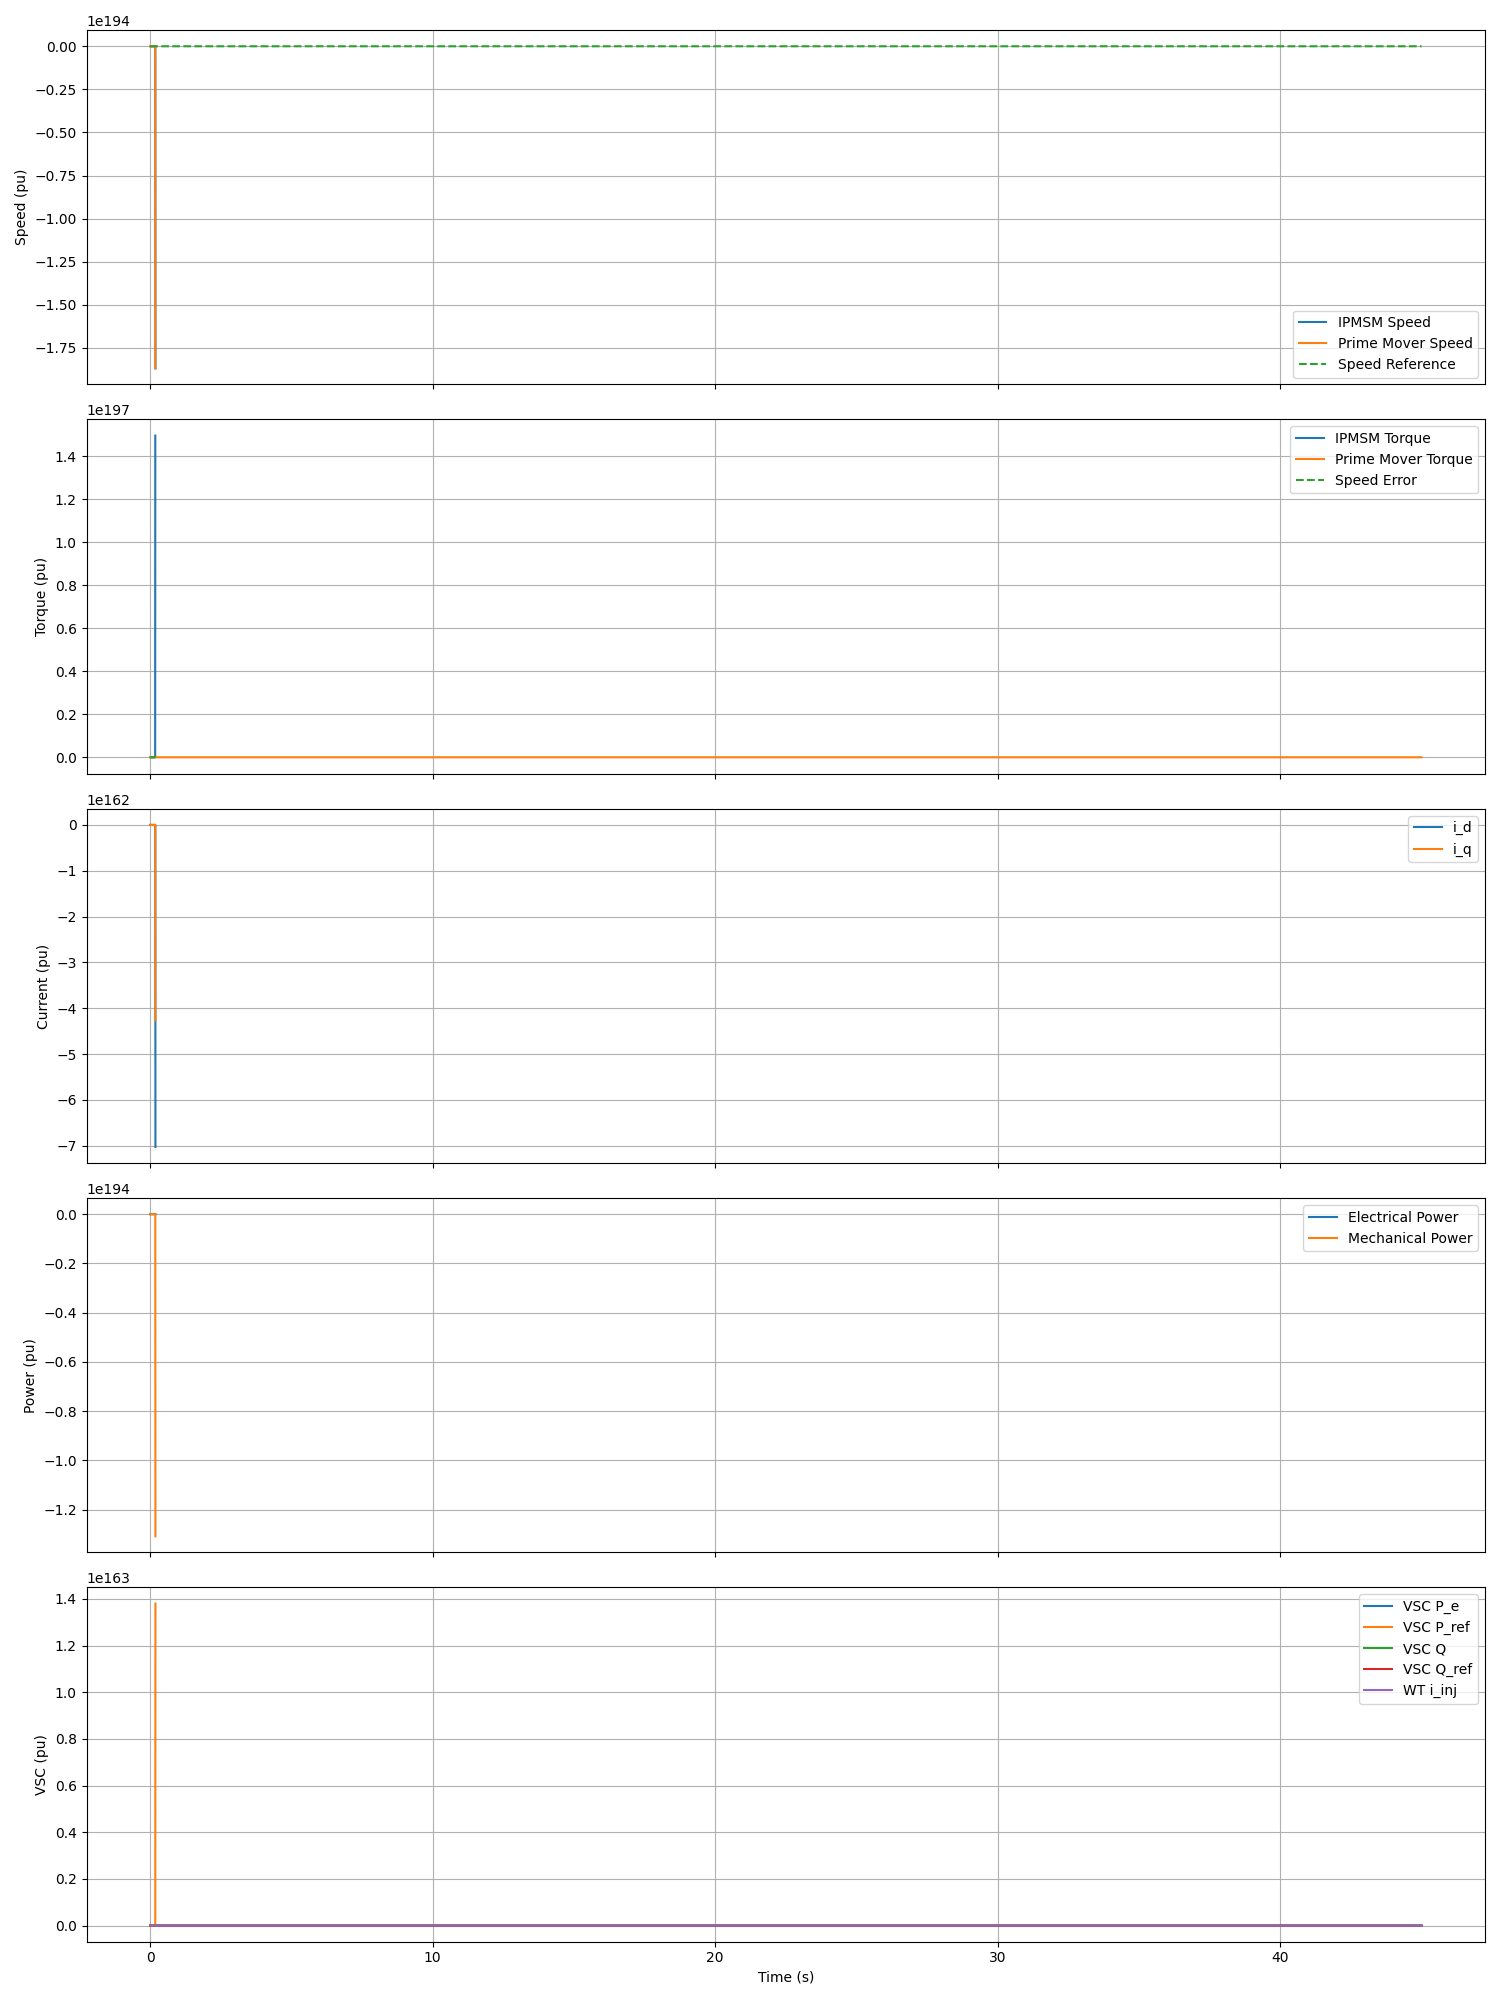
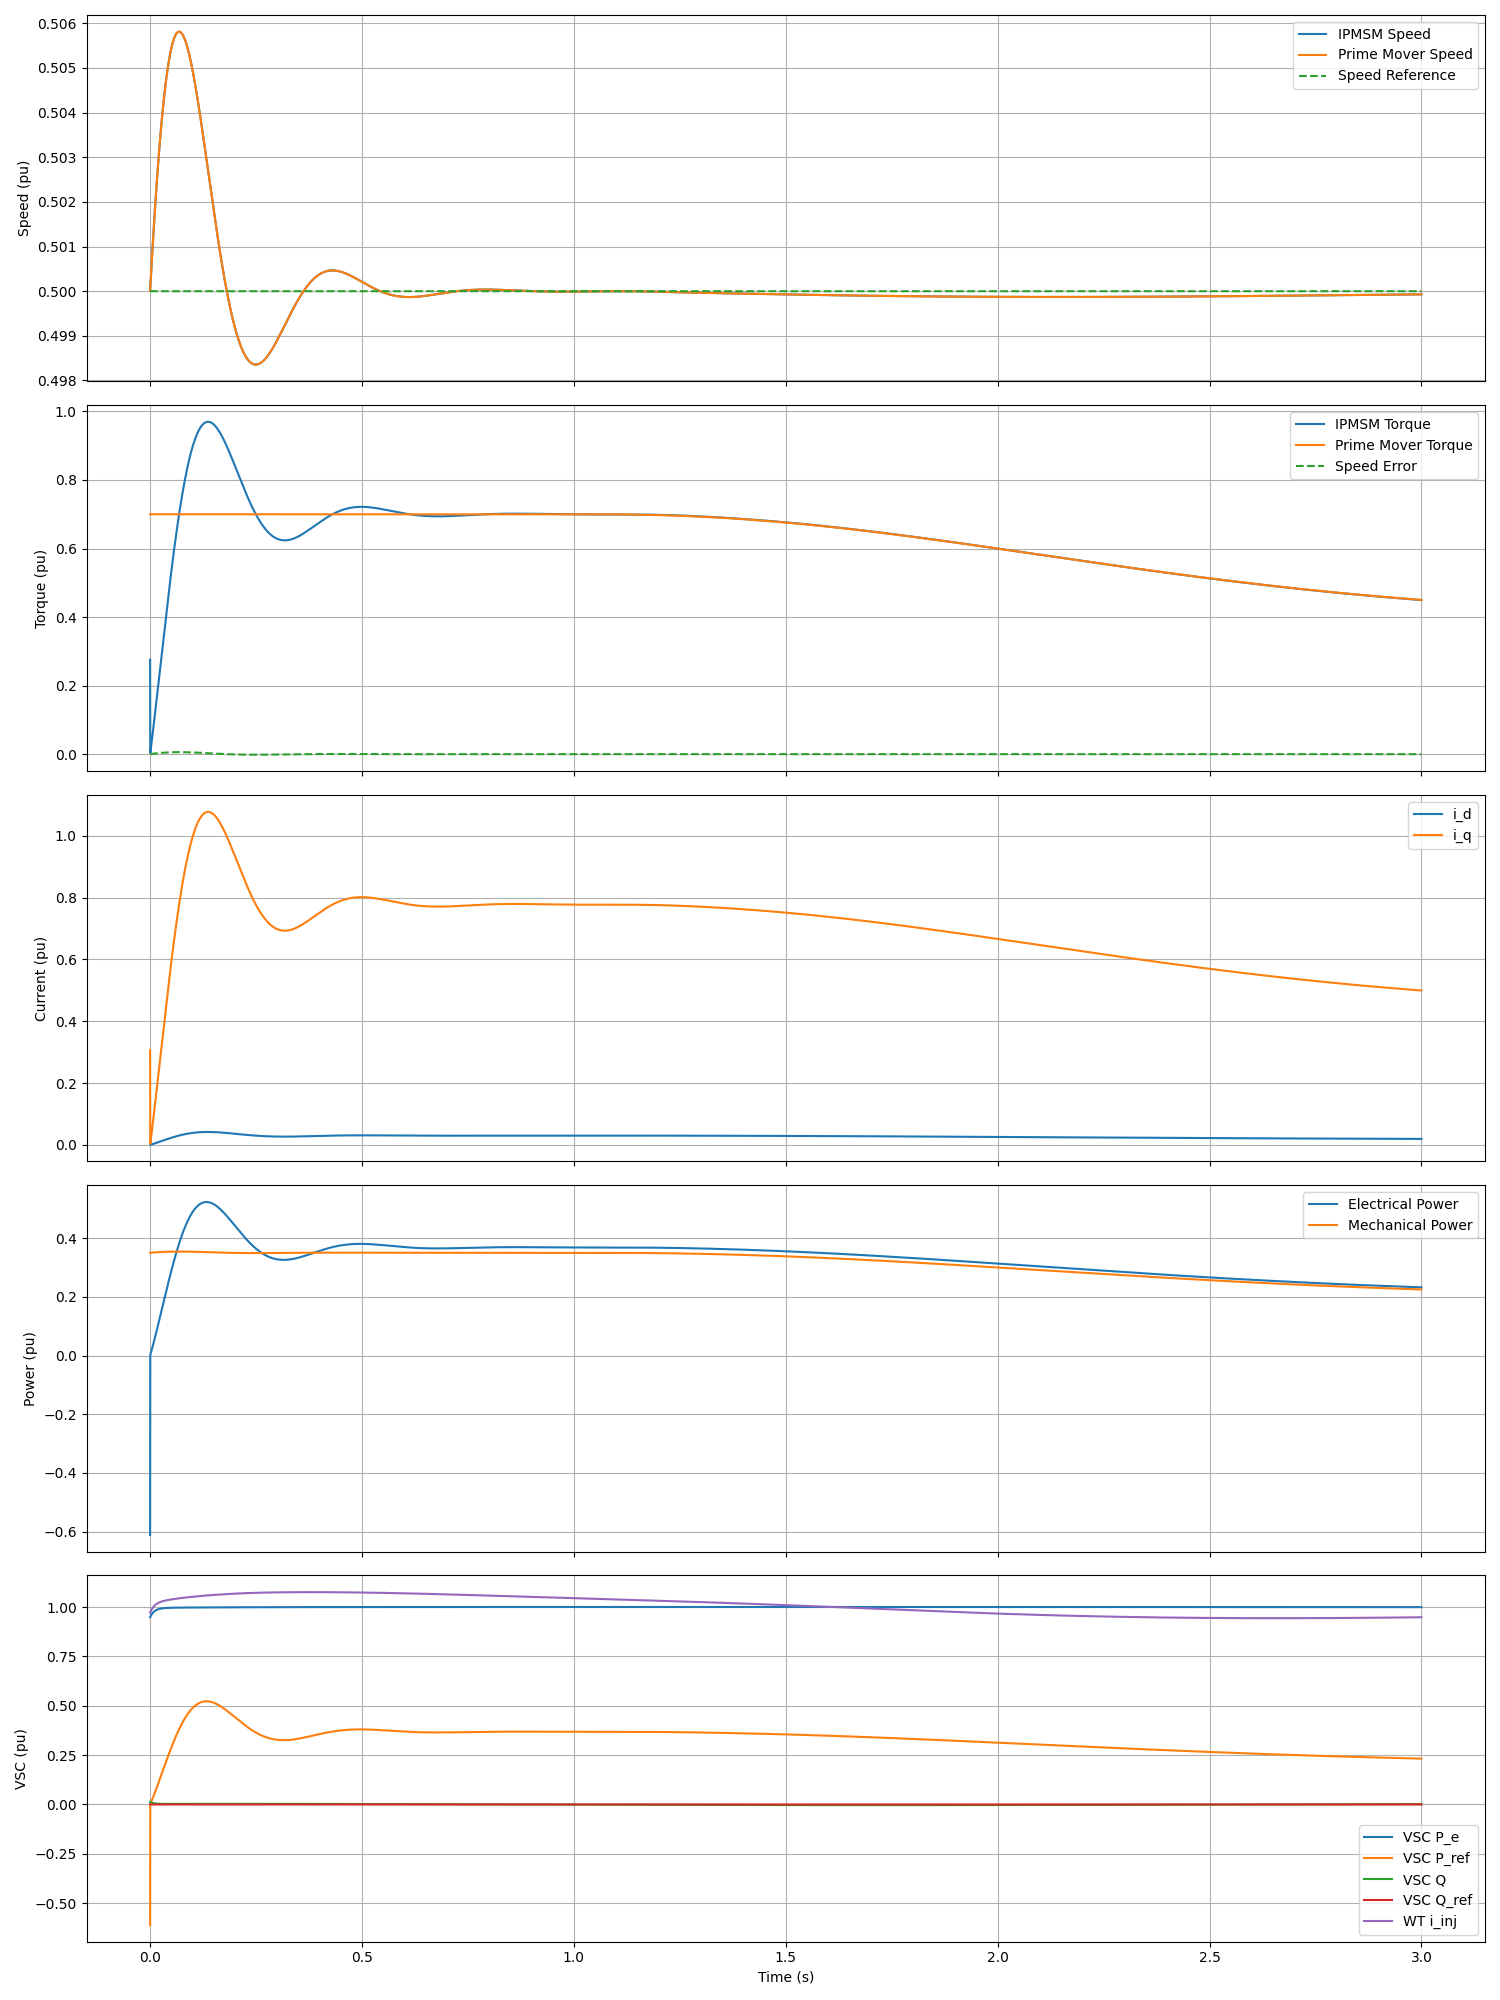
Numerisk drit - rolig helg eller? - Sludd har ankommet Trondheim - Gen lab var mid - Føler meg generelt nystellt - God helg

diff --git a/src/tops/dyn_models/IPMSM_drives.py b/src/tops/dyn_models/IPMSM_drives.py
@@ -5,6 +5,43 @@ import numpy as np
 import matplotlib.pyplot as plt
 from tops.dyn_models.utils import DAEModel
 
+def rkf45(f, y0, t0, dt):
+    c = [0, 1/4, 3/8, 12/13, 1, 1/2]
+    a = [
+        [],
+        [1/4],
+        [3/32, 9/32],
+        [1932/2197, -7200/2197, 7296/2197],
+        [439/216, -8, 3680/513, -845/4104],
+        [-8/27, 2, -3544/2565, 1859/4104, -11/40]
+    ]
+    b = [16/135, 0, 6656/12825, 28561/56430, -9/50, 2/55]
+    b_star = [25/216, 0, 1408/2565, 2197/4104, -1/5, 0]
+
+    k = [f(t0, y0)]
+    for i in range(1, 6):
+        yi = y0 + dt * sum(a[i][j] * k[j] for j in range(i))
+        k.append(f(t0 + c[i] * dt, yi))
+
+    y_new = y0 + dt * sum(b[i] * k[i] for i in range(6))
+    y_star = y0 + dt * sum(b_star[i] * k[i] for i in range(6))
+    error = np.linalg.norm(y_new - y_star)
+    return y_new, error
+
+# Adaptive timestep control
+def adaptive_rkf45(f, y0, t0, dt, tol=1e-6):
+    safety_factor = 0.9
+    max_factor = 5.0
+    min_factor = 0.2
+
+    while True:
+        y_new, error = rkf45(f, y0, t0, dt)
+        if error < tol:
+            break
+        dt = max(min_factor, min(max_factor, safety_factor * (tol / error)**0.25)) * dt
+
+    return y_new, dt
+
 # region PI Controller class
 class PIController_LAH:
     def __init__(self, kp, ti):
@@ -138,9 +175,15 @@ class IPMSM(MachineSideConverter, PrimeMover, PIController_LAH):
         # self.speed_measured = self.speed
 
         # Initialize PI controllers for i_d and i_q
-        self.pi_controller_id = PIController_LAH(kp=1.27, ti=0.14)
-        self.pi_controller_iq = PIController_LAH(kp=1.27, ti=0.14)
-        self.pi_controller_speed = PIController_LAH(kp=56, ti=0.04)
+        # self.pi_controller_id = PIController_LAH(kp=1.27, ti=0.14)
+        # self.pi_controller_iq = PIController_LAH(kp=1.27, ti=0.14)
+        # self.pi_controller_speed = PIController_LAH(kp=56, ti=0.04)
+
+
+        # Initialize PI controllers for i_d, i_q, and speed with parameters adjusted for a larger timestep
+        self.pi_controller_id = PIController_LAH(kp=0.5, ti=0.2)
+        self.pi_controller_iq = PIController_LAH(kp=0.5, ti=0.2)
+        self.pi_controller_speed = PIController_LAH(kp=20, ti=0.1)
 
         # Desired currents and speed
         self.i_d_ref = 0.0          # Må kanskje endres senere
@@ -173,6 +216,8 @@ class IPMSM(MachineSideConverter, PrimeMover, PIController_LAH):
 
                     % Mechanical
                     T_m = 0.8; [s] mechanical time constant
+
+        
         
         """
 
@@ -182,8 +227,13 @@ class IPMSM(MachineSideConverter, PrimeMover, PIController_LAH):
         psi_q = self.i_q*p["x_q"]
         psi_d = self.i_d*p["x_d"] + p["Psi_m"]
 
+        # Motor convention
         dX["i_d"] = (self.converter.vd - p["rs"]*self.i_d + psi_q*self.speed) * (p["w_n"]/p["x_d"])
         dX["i_q"] = (self.converter.vq - p["rs"]*self.i_q - psi_d*self.speed) * (p["w_n"]/p["x_d"])
+
+        # Generator convention (care for direction of the currents)
+        # dX["i_d"] = (-self.converter.vd + p["rs"]*self.i_d - psi_q*self.speed) * (p["w_n"]/p["x_d"])
+        # dX["i_q"] = (-self.converter.vq + p["rs"]*self.i_q + psi_d*self.speed) * (p["w_n"]/p["x_d"])
 
         Te = psi_d*self.i_q - psi_q*self.i_d
 
@@ -256,7 +306,7 @@ class IPMSM(MachineSideConverter, PrimeMover, PIController_LAH):
     
     # endregion
 
-    def update_states(self, t, dt):
+    def update_states(self, t, dt, tol=1e-6):
 
         # Update the reference values of the prime mover, this is because of any changes in the reference values (ramping)
         self.set_primemover_ramp_reference_values(current_time=t)
@@ -270,14 +320,99 @@ class IPMSM(MachineSideConverter, PrimeMover, PIController_LAH):
         # Update reference voltages using PI controllers
         self.update_current_control(dt)
 
+        # def derivatives_wrapper(t, y):
+        #         self.primemover.speed, self.i_d, self.i_q = y
+        #         dX = self.derivatives()
+        #         return np.array([dX["speed"], dX["i_d"], dX["i_q"]])
+
+        # y0 = np.array([self.primemover.speed, self.i_d, self.i_q])
+        # y_new, dt_new = adaptive_rkf45(derivatives_wrapper, y0, t, dt, tol)
+
+        # # Update the states
+        # self.primemover.speed, self.i_d, self.i_q = y_new
+        # self.speed = self.primemover.speed
+
+        # return dt_new
+
         # Calculate the derivatives
         dX = self.derivatives()
 
-        # Update the states using Euler integration
+        # # Update the states using Euler integration
         self.primemover.speed += dX["speed"] * dt
         self.speed += dX["speed"] * dt
         self.i_d += dX["i_d"] * dt
         self.i_q += dX["i_q"] * dt
+
+        # region RKF45
+        # Calculate the derivatives using adaptive RKF45 method
+        # Define the Runge-Kutta-Fehlberg method (RKF45)
+
+
+        # region Traapezoidal rule
+        # # Update the states using the trapezoidal rule
+        # dX1 = self.derivatives()
+        
+        # # Predict the next state
+        # temp_speed = self.primemover.speed + dX1["speed"] * dt
+        # temp_i_d = self.i_d + dX1["i_d"] * dt
+        # temp_i_q = self.i_q + dX1["i_q"] * dt
+        
+        # # Calculate the derivatives at the predicted next state
+        # self.primemover.speed = temp_speed
+        # self.i_d = temp_i_d
+        # self.i_q = temp_i_q
+        # dX2 = self.derivatives()
+        
+        # # Correct the state using the average of the derivatives
+        # self.primemover.speed += 0.5 * (dX1["speed"] + dX2["speed"]) * dt
+        # self.speed = self.primemover.speed
+        # self.i_d += 0.5 * (dX1["i_d"] + dX2["i_d"]) * dt
+        # self.i_q += 0.5 * (dX1["i_q"] + dX2["i_q"]) * dt
+        # endregion
+
+        # region Runge-Kutta
+        # # Update the states using Runge-Kutta 4th order method
+        # Runge-Kutta 4th order method
+        # k1 = self.derivatives()
+        # self.i_d += k1["i_d"] * dt / 2
+        # self.i_q += k1["i_q"] * dt / 2
+        # self.speed += k1["speed"] * dt / 2
+
+        # k2 = self.derivatives()
+        # self.i_d += (k2["i_d"] - k1["i_d"]) * dt / 2
+        # self.i_q += (k2["i_q"] - k1["i_q"]) * dt / 2
+        # self.speed += (k2["speed"] - k1["speed"]) * dt / 2
+
+        # k3 = self.derivatives()
+        # self.i_d += (k3["i_d"] - k2["i_d"]) * dt
+        # self.i_q += (k3["i_q"] - k2["i_q"]) * dt
+        # self.speed += (k3["speed"] - k2["speed"]) * dt
+
+        # k4 = self.derivatives()
+        # self.i_d += (k4["i_d"] - k3["i_d"]) * dt / 6
+        # self.i_q += (k4["i_q"] - k3["i_q"]) * dt / 6
+        # self.speed += (k4["speed"] - k3["speed"]) * dt / 6
+        # endregion
+
+        # region Modified Euler
+        # Update the states using Modified Euler method
+        # k1 = self.derivatives()
+        # temp_i_d = self.i_d + k1["i_d"] * dt
+        # temp_i_q = self.i_q + k1["i_q"] * dt
+        # temp_speed = self.speed + k1["speed"] * dt
+
+        # # Temporarily update the states
+        # self.i_d = temp_i_d
+        # self.i_q = temp_i_q
+        # self.speed = temp_speed
+
+        # k2 = self.derivatives()
+
+        # # Final update of the states
+        # self.i_d += 0.5 * (k1["i_d"] + k2["i_d"]) * dt
+        # self.i_q += 0.5 * (k1["i_q"] + k2["i_q"]) * dt
+        # self.speed += 0.5 * (k1["speed"] + k2["speed"]) * dt
+        # endregion
 
     def set_converter_voltages(self, v_d_ctrl, v_q_ctrl, dt):
         self.converter.set_reference_voltages(v_d_ctrl, v_q_ctrl)

diff --git a/examples/dyn_sim/testing_WT_machine_side.py b/examples/dyn_sim/testing_WT_machine_side.py
@@ -58,31 +58,46 @@ error_id_values = []
 
 event_flag1 = True
 event_flag2 = True
+event_flag3 = True
 
-t = 0
+
 
 # Simulation parameters
-dt = 1e-4  # Time step 
-simulation_time = 30  # Total simulation time
+t = 0
+dt = 1e-4  # Time step
+tol = 1e-10  # Tolerance
+simulation_time = 5  # Total simulation time
 
+unique_timesteps = set()
 
 # Run the simulation
 while t < simulation_time:
     # Print the percentage of simulation completed
     if int(t / dt) % int(simulation_time / 100 / dt) == 0:
         print(f"\rSimulation {int(t / simulation_time * 100)}% complete", end='')
+
+    ipmsm.update_states(t , dt, tol)
+
     # Update the states
-    if t > 5 and event_flag1:
-        ipmsm.set_prime_mover_reference(speed_ref=0.4, torque_ref=0.5, ramp_time=1, dt=dt, current_time=t)
+    if t > 2 and event_flag1:
+        ipmsm.set_prime_mover_reference(speed_ref=0.7, torque_ref=0.5, ramp_time=1, dt=dt, current_time=t)
         event_flag1 = False
 
-    # if t > 20 and event_flag2:
-    #     ipmsm.set_prime_mover_reference(speed_ref=0.7, torque_ref=0.8, ramp_time=10, dt=dt, current_time=t)
-    #     event_flag2 = False
+    if t > 8 and event_flag2:
+        ipmsm.set_prime_mover_reference(speed_ref=1, torque_ref=0.8, ramp_time=10, dt=dt, current_time=t)
+        event_flag2 = False
 
-    # Update the prime mover reference values gradually
+    if t > 15 and event_flag3:
+        ipmsm.set_prime_mover_reference(speed_ref=0.9, torque_ref=1, ramp_time=10, dt=dt, current_time=t)
+        event_flag3 = False
 
-    ipmsm.update_states(t , dt)
+
+    if dt > 1e-4 and int(t / dt) % int(simulation_time / 10 / dt) == 0:
+        print("")
+        print(f"dt changed to {dt}")
+    
+    # Add the current timestep to the set
+    unique_timesteps.add(dt)
 
     t += dt
     # Get mechanical states
@@ -134,6 +149,8 @@ while t < simulation_time:
     error_iq_values.append(ipmsm.i_q_ref - i_q)
     error_id_values.append(ipmsm.i_d_ref - i_d)
 
+print("")
+print("Unique timesteps: ", len(unique_timesteps))
 print("")
 print("Plotting in progress...")
 # Plot the results of votlage and current

diff --git a/examples/dyn_sim/testing_WT_system.py b/examples/dyn_sim/testing_WT_system.py
@@ -58,7 +58,7 @@ if __name__ == '__main__':
     ps.init_dyn_sim()
     print(max(abs(ps.state_derivatives(0, ps.x_0, ps.v_0))))
 
-    t_end = 45
+    t_end = 3
 
     x_0 = ps.x_0.copy()
 
@@ -80,7 +80,7 @@ if __name__ == '__main__':
         sys.stdout.write("\r%d%%" % (t/(t_end)*100))
 
         # Update the states
-        if t > 2 and event_flag1:
+        if t > 1 and event_flag1:
             ipmsm.set_prime_mover_reference(speed_ref=0.5, torque_ref=0.4, ramp_time=1, dt=dt, current_time=t)
             event_flag1 = False
 
@@ -88,8 +88,9 @@ if __name__ == '__main__':
             ipmsm.set_prime_mover_reference(speed_ref=0.7, torque_ref=0.8, ramp_time=10, dt=dt, current_time=t)
             event_flag2 = False        
 
-        ipmsm.update_states(t=t, dt=dt)
+        ipmsm.update_states(t=t, dt=sol.dt)
         Pref = ipmsm.get_Pe()
+
         ps.vsc['GridSideConverter'].set_input('p_ref', Pref)
 
 

diff --git a/examples/dyn_sim/vsc_lekestue.py b/examples/dyn_sim/vsc_lekestue.py
@@ -23,13 +23,13 @@ if __name__ == '__main__':
     ps.init_dyn_sim()
     print(max(abs(ps.state_derivatives(0, ps.x_0, ps.v_0))))
 
-    t_end = 15
+    t_end = 5
     x_0 = ps.x_0.copy()
 
-    dt = 5e-3
+    # dt = 
 
     # Solver
-    sol = dps_sol.ModifiedEulerDAE(ps.state_derivatives, ps.solve_algebraic, 0, x_0, t_end, dt)
+    sol = dps_sol.ModifiedEulerDAE(ps.state_derivatives, ps.solve_algebraic, 0, x_0, t_end, max_step = 1e-4)
 
     # Initialize simulation
     t = 0
@@ -51,6 +51,8 @@ if __name__ == '__main__':
         x = sol.y
         v = sol.v
         t = sol.t
+
+        # print(sol.dt)
 
         dx = ps.ode_fun(0, ps.x_0)
 

diff --git a/src/tops/ps_models/user_ps_models/k2a_vsc.py b/src/tops/ps_models/user_ps_models/k2a_vsc.py
@@ -103,7 +103,7 @@ def load():
         'vsc1': {
             'VSC_PQ': [
                 ['name', 'bus', 'S_n', 'p_ref', 'q_ref',  'k_p', 'k_q', 'T_p', 'T_q', 'k_pll','T_pll', 'T_i', 'i_max'],
-                ['VSC1', 'B1',    100,     1,       0,       1,      1,    0.1,   0.1,     5,      1,      0.01,    1.2],
+                ['VSC1', 'B1',    100,     1,       0,       3,      3,    0.1,   0.1,     5,      1,      0.03,    1.2],
             ],
         }
  
